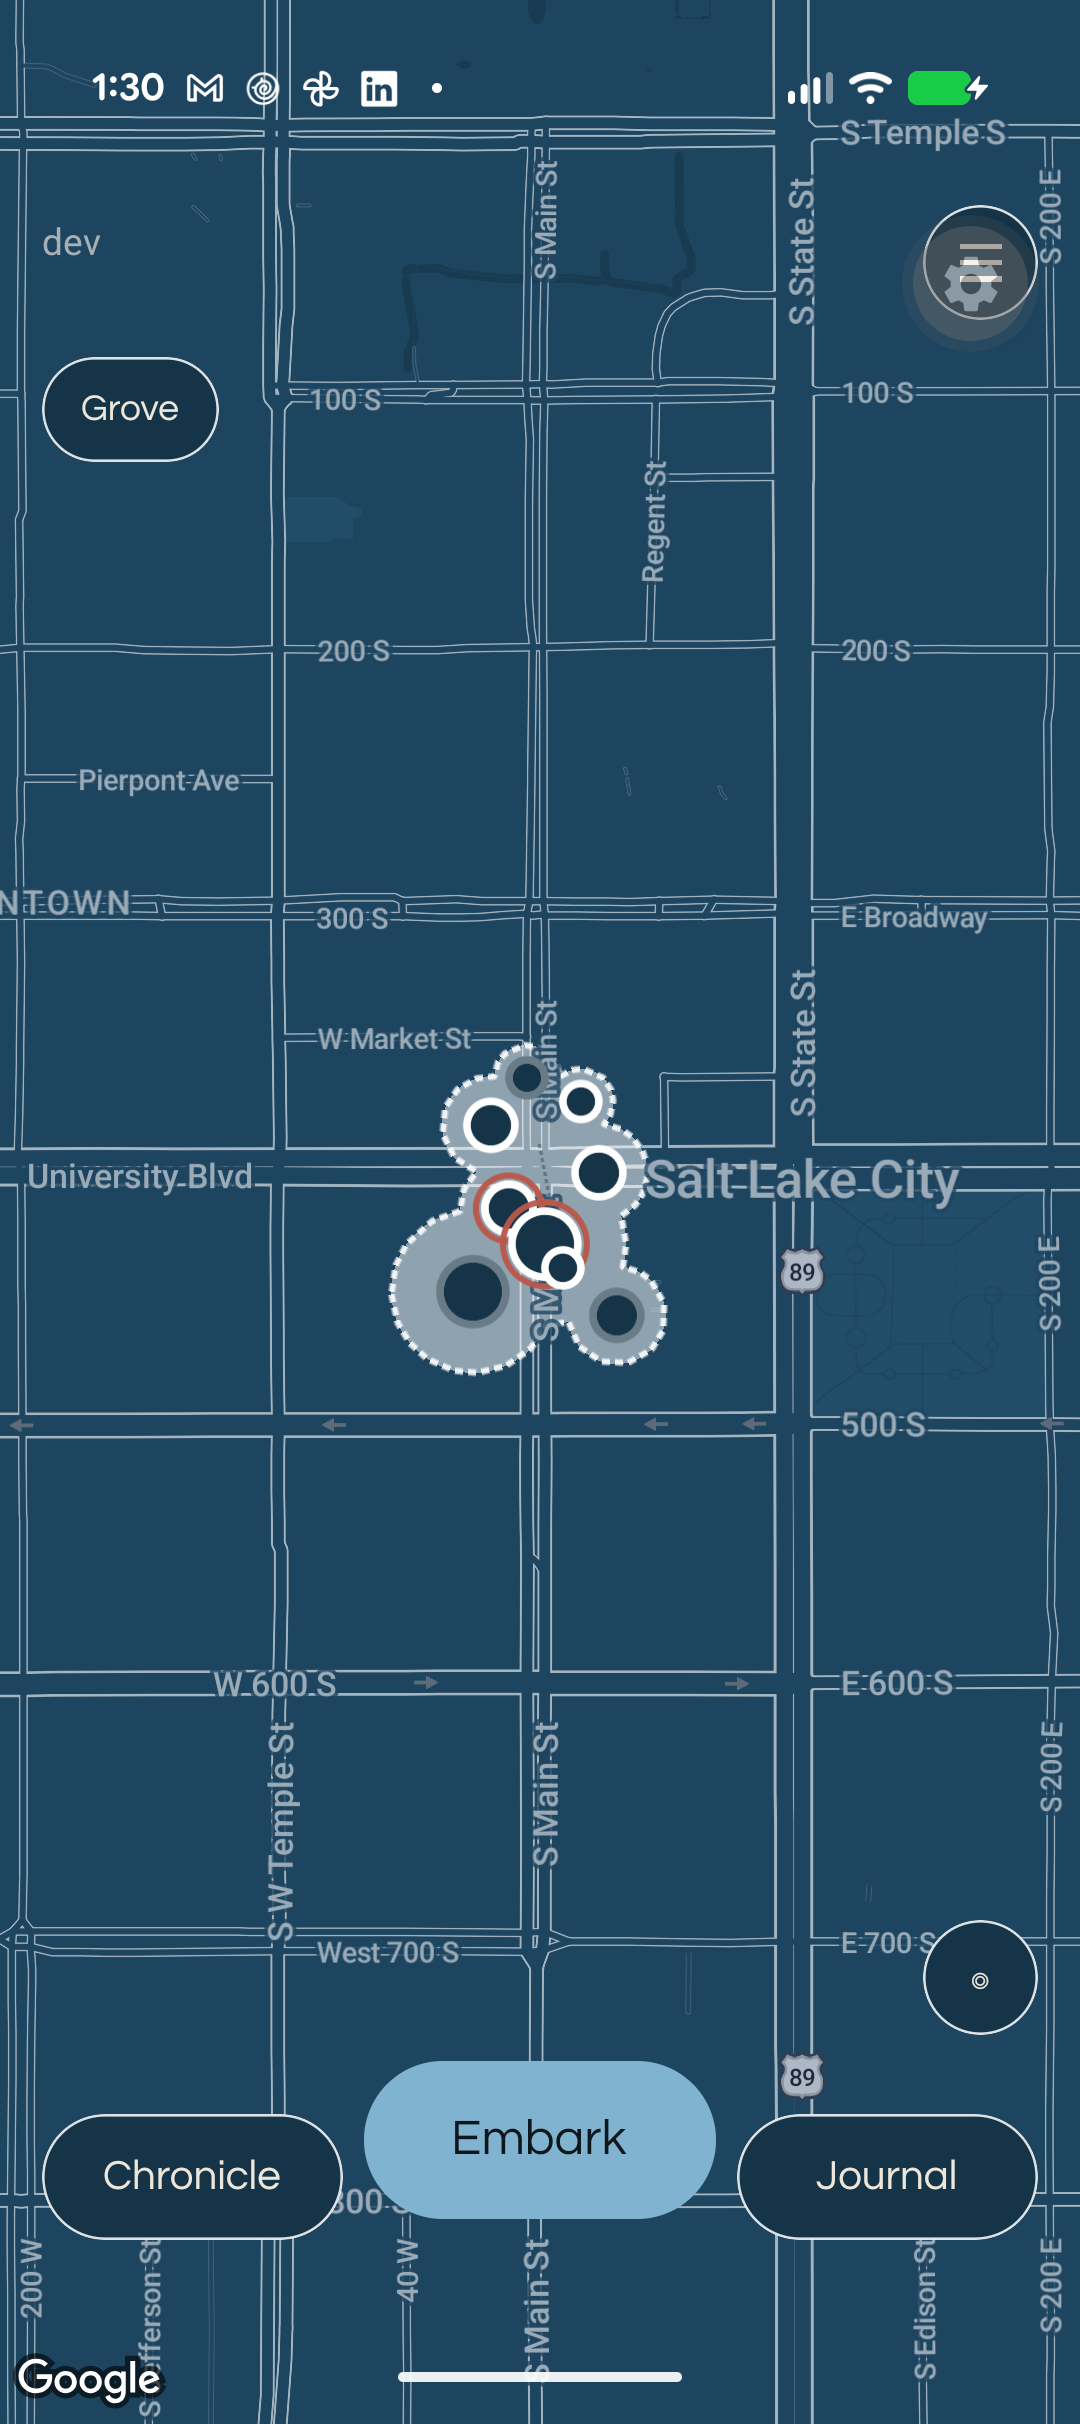
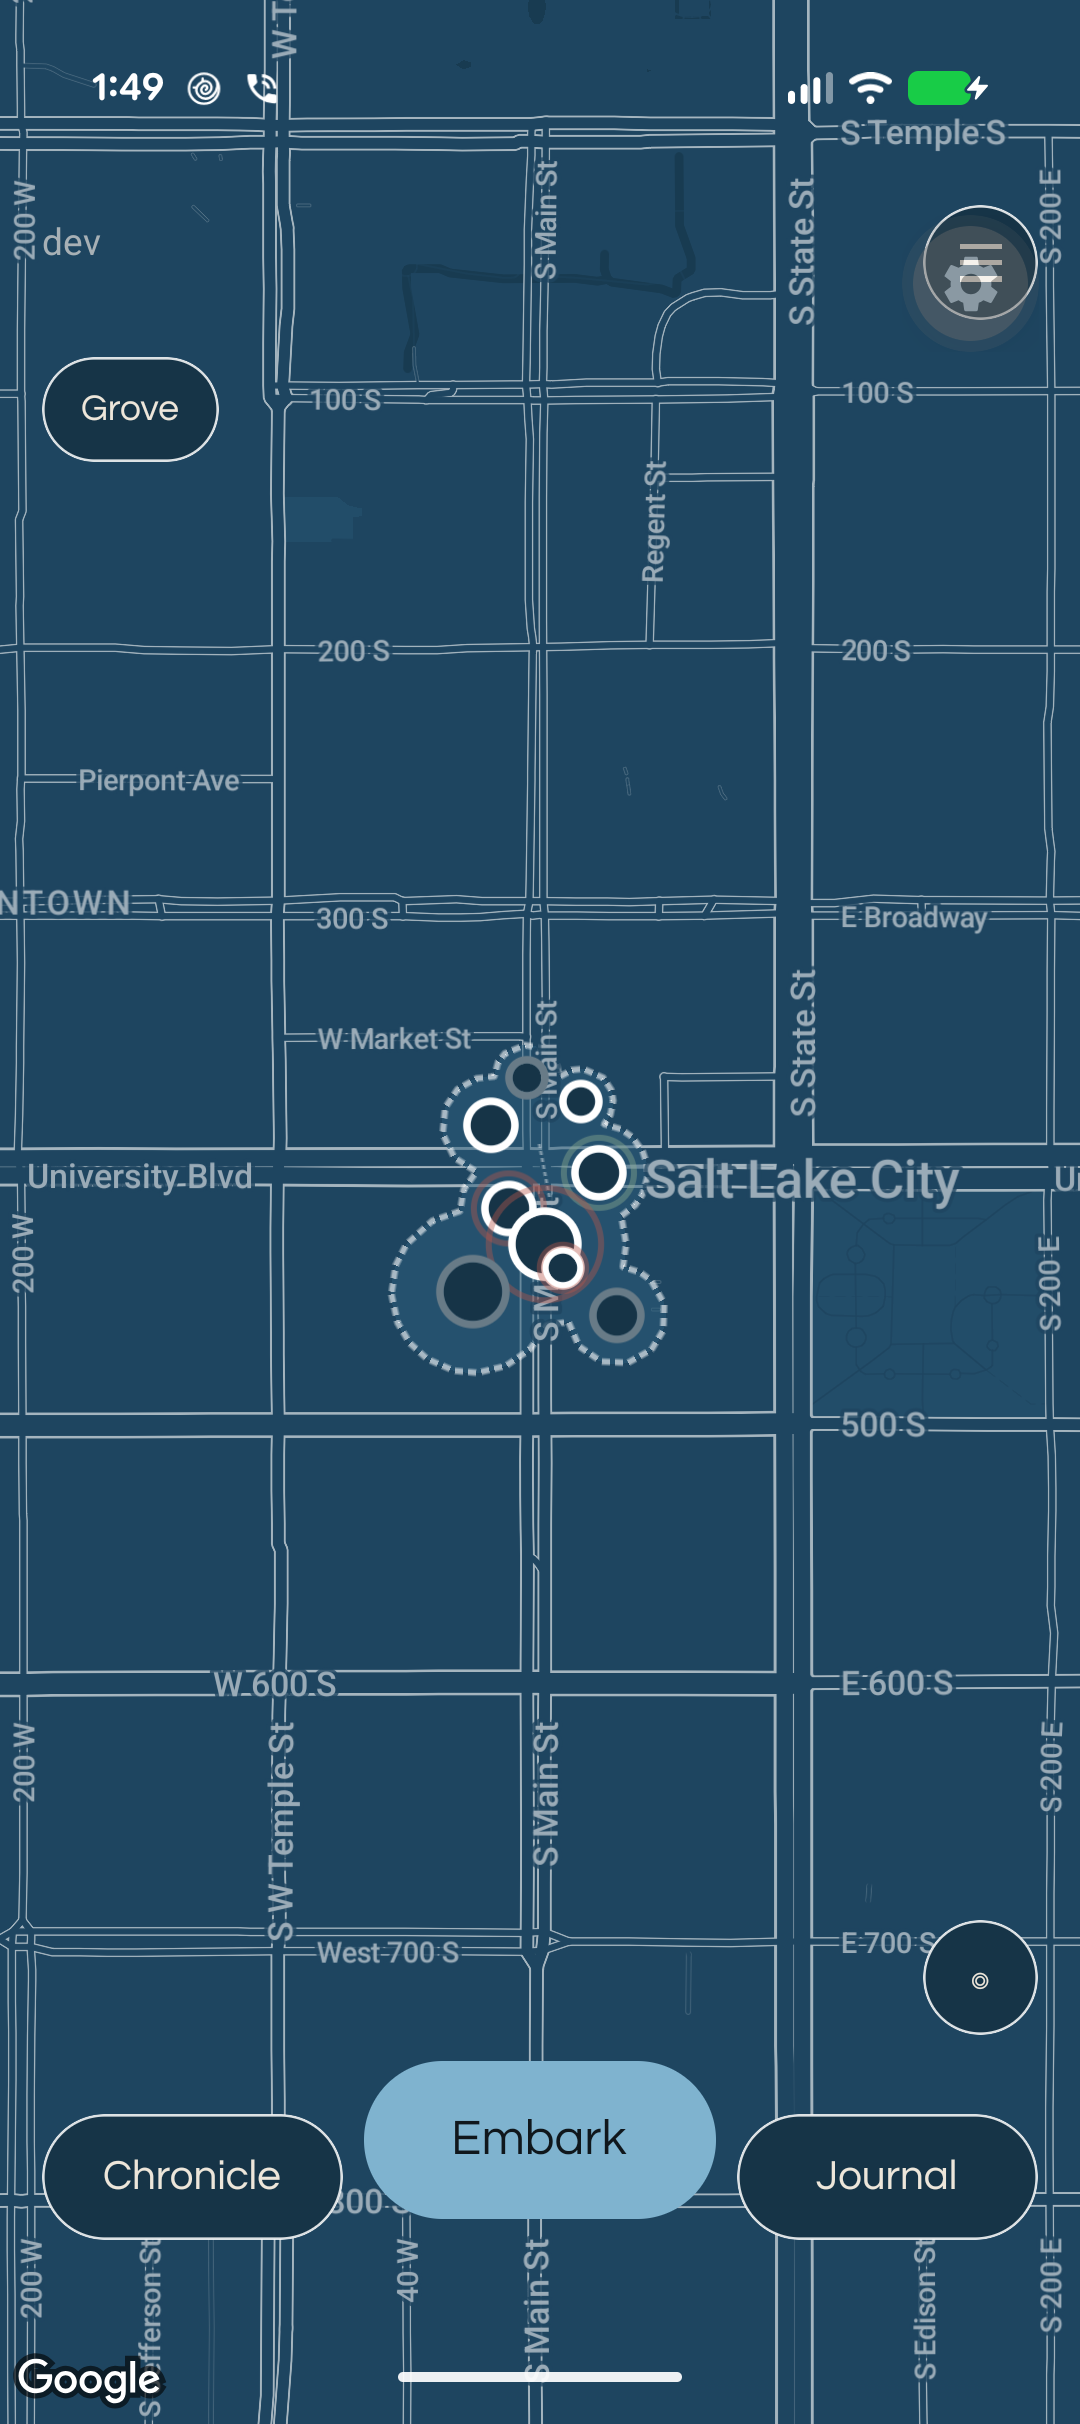
Fix M5b final review: remount grove fill on theme change, hide 3D buildings.

diff --git a/apps/mobile/src/map/HomeMap.tsx b/apps/mobile/src/map/HomeMap.tsx
@@ -181,6 +181,7 @@ export function HomeMap(props: Props) {
       initialRegion={initialTarget ?? WORLD}
       showsUserLocation={showUser}
       showsMyLocationButton={false}
+      showsBuildings={false}
       toolbarEnabled={false}
       showsCompass={false}
       zoomControlEnabled={false}
@@ -222,7 +223,7 @@ export function HomeMap(props: Props) {
       {groves.flatMap((grove) =>
         grove.pieces.map((piece, index) => (
           <Polygon
-            key={`${grove.id}-fill-${index}`}
+            key={`${grove.id}-fill-${themeName}-${index}`}
             coordinates={piece.outer}
             holes={piece.holes}
             fillColor={theme.groveFill}

diff --git a/apps/mobile/src/map/mapHome.test.ts b/apps/mobile/src/map/mapHome.test.ts
@@ -295,6 +295,16 @@ describe("map styles", () => {
     );
     expect(dayStyle.some((rule) => rule.elementType === "labels.text.stroke")).toBe(true);
     expect(nightStyle.some((rule) => rule.elementType === "labels.text.stroke")).toBe(true);
+    for (const style of styles) {
+      expect(
+        style.some(
+          (rule) =>
+            rule.featureType === "road" &&
+            rule.elementType === "labels.icon" &&
+            rule.stylers.some((item) => item.visibility === "off"),
+        ),
+      ).toBe(true);
+    }
   });
 });
 

diff --git a/docs/briefs/M5b-report.md b/docs/briefs/M5b-report.md
@@ -104,3 +104,24 @@ Jordan’s Pixel look + ADR 0006 / standards §4.3, §5.1–§5.3. Brief: `docs/
 | `CI=1 expo export --platform android --clear` | passed → `%TEMP%\m5b-design-export` |
 
 PNGs regenerated with `scripts/generate-marker-pngs.ts` (108 names / 216 files including `@3x` and locked).
+
+## Final fixes
+
+Merged `origin/master` (A2 Part 2). `pnpm install` — lockfile unchanged.
+
+**R1.** Fill `Polygon` keys now include the theme name (`${grove.id}-fill-${themeName}-${index}`) so a live day→night switch remounts them. Retook `night.png` after Follow my phone + `cmd uimode night yes` **without a reload**: grove fill is the night blue wash (not day white 50%).
+
+**R2.** `showsBuildings={false}` on `MapView`. Night shot shows flat footprints only.
+
+**One-way arrows.** Added `road` → `labels.icon` → `visibility: off` to both day and night styles. **They still show** on the live night screenshot (Main / State). Style rule does not hide them; they stay.
+
+**Dev-only:** Grove fly and the `dev` wordmark remain behind `__DEV__`.
+
+**Checks after R1–R2**
+
+| Check | Result |
+|---|---|
+| `pnpm --filter @intell/mobile test` | 13 suites, 45 tests, passed |
+| `pnpm --filter @intell/mobile typecheck` | passed |
+| `pnpm --filter @intell/mobile lint` | passed |
+| `CI=1 expo export --platform android --clear` | passed → `%TEMP%\m5b-final-export` |
